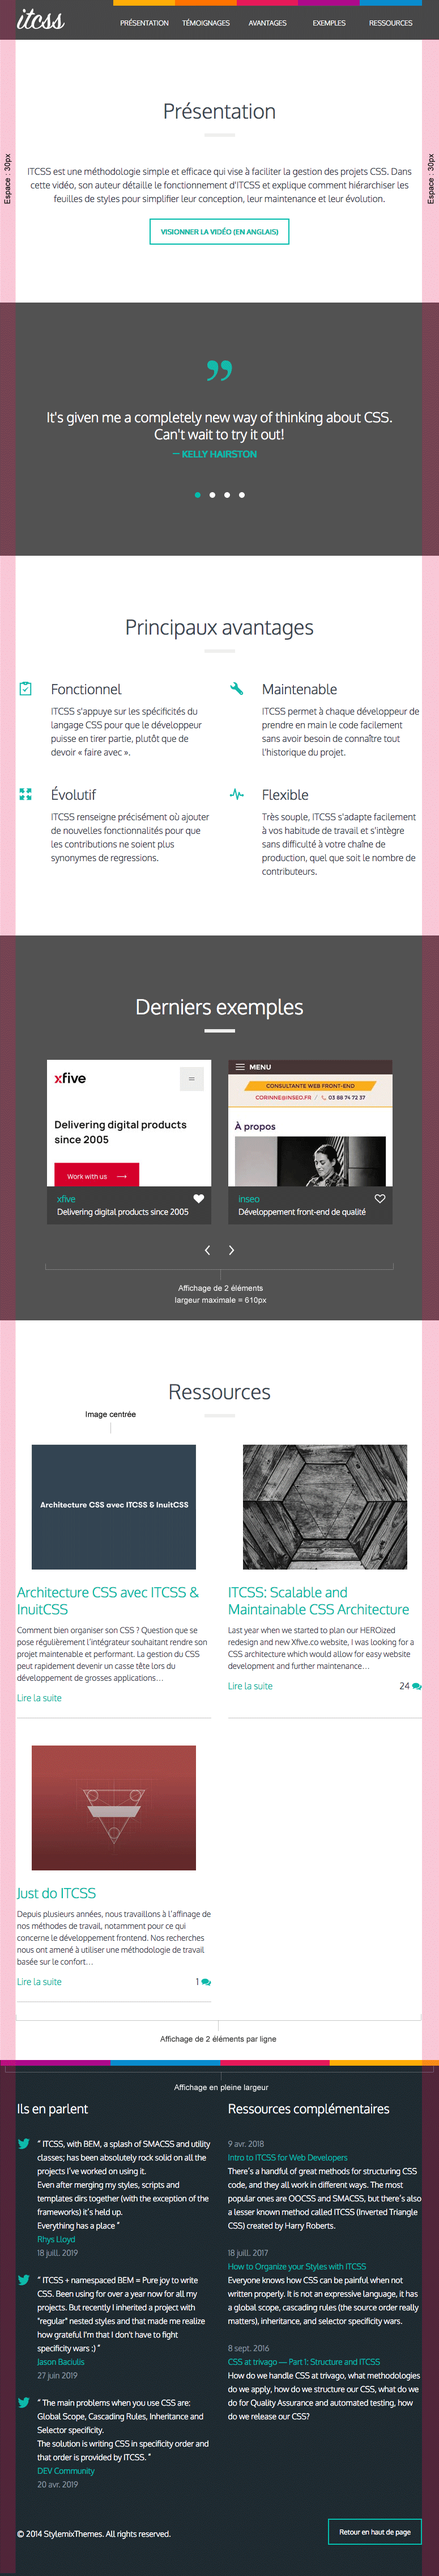
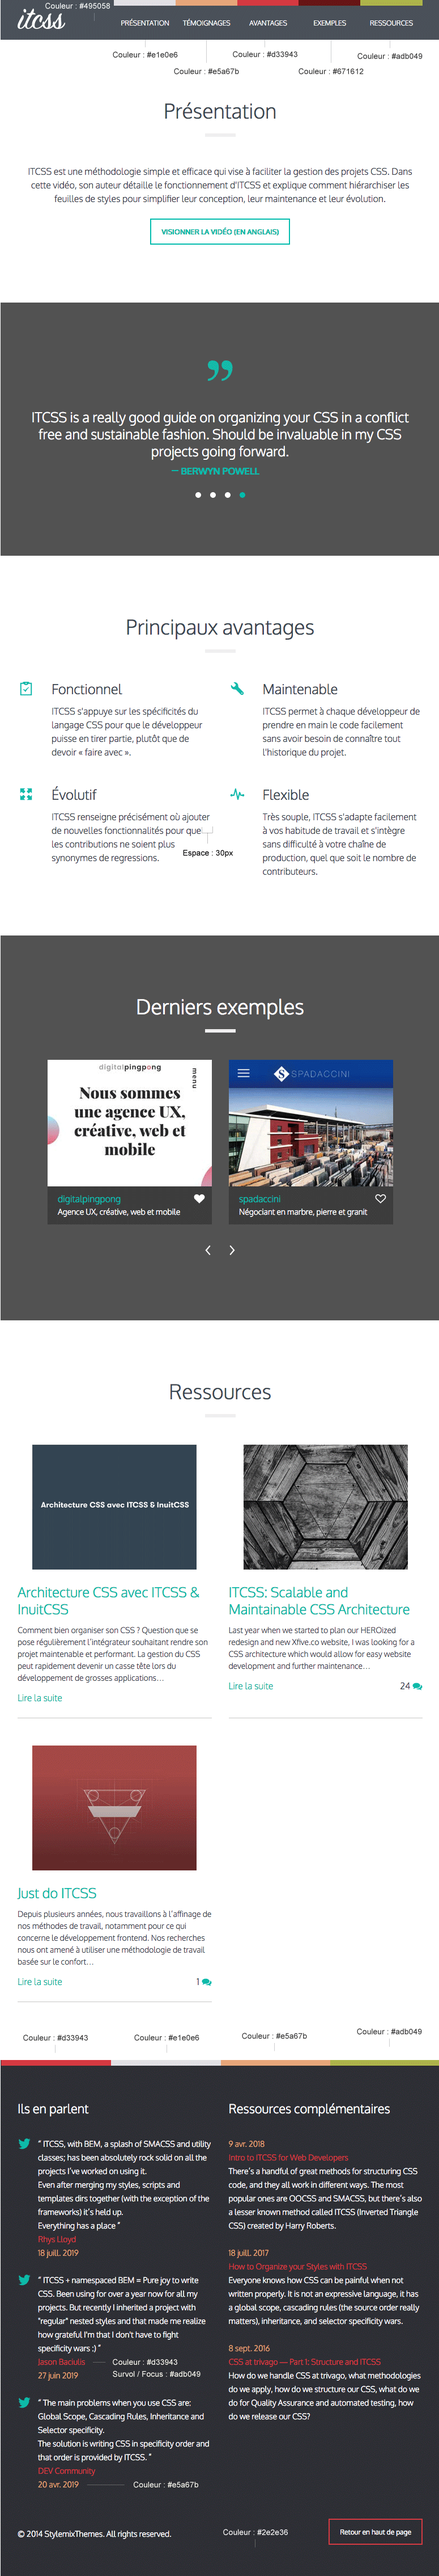
Exercice 3 : Ajouter un thème alternatif

diff --git a/exercice/content/index.html b/exercice/content/index.html
@@ -226,8 +226,8 @@
       <div class="o-wrapper">
         <h2 class="c-h1">Ressources</h2>
         <div class="o-layout">
-          <div class="o-layout__item o-layout__item--third c-card">
-            <a href="#" tabindex="-1">
+          <div class="o-layout__item o-layout__item--third o-layout__item--half@m c-card">
+            <a class="u-txt-center" href="#" tabindex="-1">
               <img class="c-card__img" src="img/ITCSS&InuitCSS.png" alt="Architecture CSS avec ITCSS & InuitCSS" />
             </a>
             <h3 class="c-h2">
@@ -238,8 +238,8 @@
               <a href="#" tabindex="-1">Lire la suite</a>
             </span>
           </div>
-          <div class="o-layout__item o-layout__item--third c-card">
-            <a href="#" tabindex="-1">
+          <div class="o-layout__item o-layout__item--third o-layout__item--half@m c-card">
+            <a class="u-txt-center" href="#" tabindex="-1">
               <img class="c-card__img" src="img/xfive.jpg" alt="ITCSS: Scalable and Maintainable CSS Architecture" />
             </a>
             <h3 class="c-h2">
@@ -254,8 +254,8 @@
               </span>
             </span>
           </div>
-          <div class="o-layout__item o-layout__item--third c-card">
-            <a href="#" tabindex="-1">
+          <div class="o-layout__item o-layout__item--third o-layout__item--half@m c-card">
+            <a class="u-txt-center" href="#" tabindex="-1">
               <img class="c-card__img" src="img/justdoITCSS.jpg" alt="Just do ITCSS" />
             </a>
             <h3 class="c-h2">
@@ -341,7 +341,12 @@
       type: 'carousel',
       startAt: 0,
       perView: 3,
-      gap: 30
+      gap: 30,
+      breakpoints: {
+        991: {
+          perView: 2
+        }
+      }
     }).mount();
     new Glide('.js-glide--testimony', {
       type: 'carousel',

diff --git a/helpers/_settings.color.scss b/helpers/_settings.color.scss
@@ -1,0 +1,60 @@
+@if $toc {
+  /* - Color____________________Default colors */
+} @else {
+  /* Colors (settings)
+    ========================================================================== */
+
+  /**
+  * @note Colors are named thanks to the [Chir.ag’s Name that Color utility](http://chir.ag/projects/name-that-color/).
+  */
+
+  :root {
+    // Definition (color)
+    --amaranth: #e51c5e;
+    --blaze-orange: #fc7100;
+    --caribbean-green: #02baab;
+    --cerulean: #0c8fcc;
+    --ebony-clay: #1f2a32;
+    --regent-gray: #85939f;
+    --tundora: #474747;
+    --violet-eggplant: #ae0f8d;
+    --yellow-sea: #ffae00;
+
+    // Definition (function)
+    --gradient: linear-gradient(
+      to right,
+      var(--violet-eggplant) 25%,
+      var(--cerulean) 25%,
+      var(--cerulean) 50%,
+      var(--amaranth) 50%,
+      var(--amaranth) 75%,
+      var(--yellow-sea) 75%,
+      var(--yellow-sea) 100%
+    );
+
+    /** Abbreviations
+    /*  - bgc => background-color
+    /*  - bgi => background-image
+    /*  - bdc => border-color
+    /*  - txt => text (color)
+    */
+
+    // Assignation (components)
+    --button--dark-bdc: var(--caribbean-green);
+    --button--dark-focus-hover-bdc: var(--yellow-sea);
+
+    --footer-bgc: var(--ebony-clay);
+    --footer__before-bgi: var(--gradient);
+    --footer__link-txt: var(--caribbean-green);
+    --footer__link-focus-hover-txt: var(--yellow-sea);
+    --footer__date-txt: var(--regent-gray);
+
+    --header-bgc: var(--tundora);
+
+    --nav__item--presentation: var(--yellow-sea);
+    --nav__item--testimony: var(--blaze-orange);
+    --nav__item--benefit: var(--amaranth);
+    --nav__item--example: var(--violet-eggplant);
+    --nav__item--asset: var(--cerulean);
+  }
+}

diff --git a/exercice/assets/styles/objects/_objects.layout.scss b/exercice/assets/styles/objects/_objects.layout.scss
@@ -28,4 +28,15 @@
   .o-layout__item--half:not(:nth-child(-n+2)) {
     margin-top: rem(48); // 48px
   }
+
+  // Specific layout on medium breakpoint
+  // Until 992px (lower or equal to 991px)
+  @media screen and (max-width: 61.9375rem) {
+    .o-layout__item--half\@m {
+      width: calc(100% / 2 - (1.875rem * 1 / 2)); // 1.875rem = 30px
+    }
+    .o-layout__item--half\@m:not(:nth-child(-n+2)) {
+      margin-top: rem(48); // 48px
+    }
+  }
 }

diff --git a/exercice/assets/styles/objects/_objects.wrapper.scss b/exercice/assets/styles/objects/_objects.wrapper.scss
@@ -10,8 +10,16 @@
   */
 
   .o-wrapper {
-    margin-right: auto;
-    margin-left: auto;
-    max-width: rem(930); // 930px
+    padding-right: rem(30); // 30px
+    padding-left: rem(30); // 30px
+
+    // From 992px (992px or higher)
+    @media screen and (min-width: 62rem) {
+      margin-right: auto;
+      margin-left: auto;
+      padding-right: 0;
+      padding-left: 0;
+      max-width: rem(930); // 930px
+    }
   }
 }

diff --git a/exercice/assets/styles/components/_components.footer.scss b/exercice/assets/styles/components/_components.footer.scss
@@ -23,7 +23,7 @@
     top: 0;
     left: 50%;
     height: rem(10); // 10px
-    width: rem(930); // 930px
+    width: 100%;
     transform: translateX(-50%);
     background-image: linear-gradient(
       to right,
@@ -35,6 +35,11 @@
       #ffae00 75%,
       #ffae00 100%
     );
+
+    // From 992px (992px or higher)
+    @media screen and (min-width: 62rem) {
+      width: rem(930); // 930px
+    }
   }
 
   .c-footer__list {

diff --git a/exercice/assets/styles/components/_components.glide-theme.scss b/exercice/assets/styles/components/_components.glide-theme.scss
@@ -57,6 +57,13 @@
   .glide--arrow {
     display: flex;
     flex-direction: column;
+
+    // Until 992px (lower or equal to 991px)
+    @media screen and (max-width: 61.9375rem) {
+      margin-right: auto;
+      margin-left: auto;
+      width: rem(610); // 610px
+    }
   }
 
   .glide--arrow .glide {

diff --git a/exercice/assets/styles/utilities/_utilities.text-center.scss b/exercice/assets/styles/utilities/_utilities.text-center.scss
@@ -1,0 +1,11 @@
+@if $toc {
+  /* - Text center______________Text align center helper classes */
+} @else {
+  /* Text align center (utility)
+   ========================================================================== */
+
+  .u-txt-center {
+    display: block;
+    text-align: center;
+  }
+}

diff --git a/exercice/assets/styles/toc.css b/exercice/assets/styles/toc.css
@@ -41,3 +41,4 @@
 /*
 /* UTILITIES */
 /* - Margin___________________Simple margin helper classes */
+/* - Text center______________Text align center helper classes */

diff --git a/exercice/ENONCE.md b/exercice/ENONCE.md
@@ -1,13 +1,11 @@
-# Exercice 2 : Ajouter un soupçon de responsive
+# Exercice 3 : Ajouter un thème alternatif
 
 <!--
 SI TU UTILISES UN ÉDITEUR CAPABLE DE PRÉVISUALISER MARKDOWN,
 FAIS-LE.  PAR EXEMPLE, DANS VS CODE, CMD/CTRL+SHIFT+V AFFICHE LA PRÉVISUALISATION.
 -->
 
-La page n'est pas vraiment responsive… On va donc faire une petite mise à jour en commençant par mettre en place un premier *breakpoint* à 992px.
-
-Pour cela, on aura recours aux _media queries_.
+Et si on mettait en place un thème de Noël, en se reposant sur le mécanisme des [propriétés personnalisées CSS](https://developer.mozilla.org/fr/docs/Web/CSS/Using_CSS_custom_properties) ?
 
 ## Résultat attendu
 
@@ -15,21 +13,20 @@ Pour cela, on aura recours aux _media queries_.
 
 ## Tâches de cet exercice
 
-Sous ce _breakpoint_ :
-
-1. La largeur maximale de l'objet `o-wrapper` est remplacée par des marges internes ;
-2. Le carrousel « Derniers exemples » est doté d'une largeur maximale ;
-3. Le carrousel passe de trois à deux colonnes, ce qui nécessite de remplacer l’invocation de Glide.js en bas de `index.html` par celle fournie dans [`helpers/glide.js`](../helpers/glide.js) ;
-4. La section « Ressources » passe elle aussi à deux colonnes, ce qui implique d'ajouter une marge supérieure aux éléments n'appartenant pas à la première ligne ;
-5. Les images de la section « Ressources » sont centrées ;
-6. La barre de décoration du pied de page s'affiche en pleine largeur.
-
-## _Media query_ ou classe de suffixe responsive conventionnelle ?
-
-- Pour du changement général, les _media queries_ classiques iront très bien ;
-- Pour un comportement très ponctuel et spécifique, une classe de suffixe responsive sera sans doute plus pertinente.
+1. Récupère le fichier [`helpers/_settings.color.scss`](../helpers/_settings.color.scss) et copie-le dans `exercice/assets/styles/settings` (sous-dossier à créer).
+2. Pense à ajouter son import Sass au tout début de la feuille de styles globale `exercice/assets/styles/styles.scss` (afin que les variables qui y sont définies soient accessibles de tous les autres styles).
+3. On va se focaliser sur l’en-tête et le pied de page, donc remplace les codes couleurs « en dur » dans les feuilles de style associées par des références aux variables du fichier de _settings_.
+   - Remarque qu’on a déclaré dans un premier temps les variables de couleurs (ex. `--amaranth`), et dans un second temps des variables plus sémantiques, à titre « d’alias » (ex. `--nav__item--benefit`). Utilise plutôt la seconde forme. L’idée est de centraliser dans le fichier de _settings_ les réutilisations / harmonisations de couleur à travers le thème, plutôt que d’en laisser le soin aux différentes feuilles de styles.
+4. Duplique le fichier de couleurs dans le même dossier, sous le nom `_settings.color-christmas.scss`, et utilise la classe `.t-christmas` (note le préfixe conventionnel de thème `.t-`) au lieu de la portée de variable CSS par défaut `:root`.
+5. Ajoute la classe `t-christmas` sur la balise `<body>` du HTML.
+6. Crée les nouvelles variables de couleurs (cf. Astuce plus bas) pour les nouveaux codes figurant sur [la maquette](./RESULT_ATTENDU.png).
+7. Altère les aliases appropriés pour qu’ils utilisent les bonnes variables de couleur, et vois ton thème prendre vie !
 
 ## Astuce
 
-- Les bonnes syntaxes de _media queries_ sont fournies dans [`helpers/breakpoint.css`](./../helpers/breakpoint.css), tu n’as plus qu’à les copier-coller aux endroits pertinents pour démarrer.
-- Pense bien à échapper le `@` dans le code source de tes sélecteurs CSS pour des suffixes responsive (ex. `.o-something\@md`). Vu le _breakpoint_ qu’on retient ici, on n’est pas tellement sur du _small_ ou du _large_ mais plutôt du *medium* : on te suggère `@md` ou `@m` comme suffixe.
+Pour donner des noms valables à tes couleurs, fais comme Corinne : utilise le super outil [Name that Color](http://chir.ag/projects/name-that-color/) !
+
+## Bonus
+
+- As-tu bien pensé à utiliser des variables sémantiques de couleur **pour les pointes de survol de navigation aussi** ?
+- Essaie de placer la classe de thème sur un périmètre moins global que `<body>` : et voilà ton thème périmétré à une seule partie (ex. le pied de page) ! Voilà la puissance des variables CSS, qui utilisent la cascade, par rapport à une simple interpolation globale de variable Sass !
